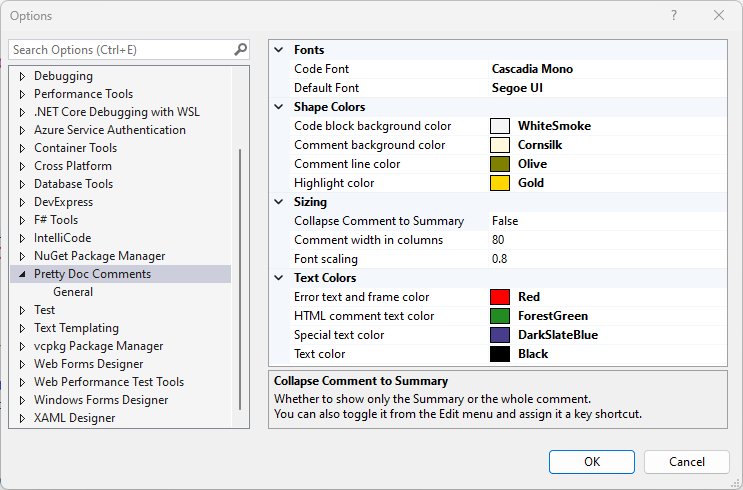
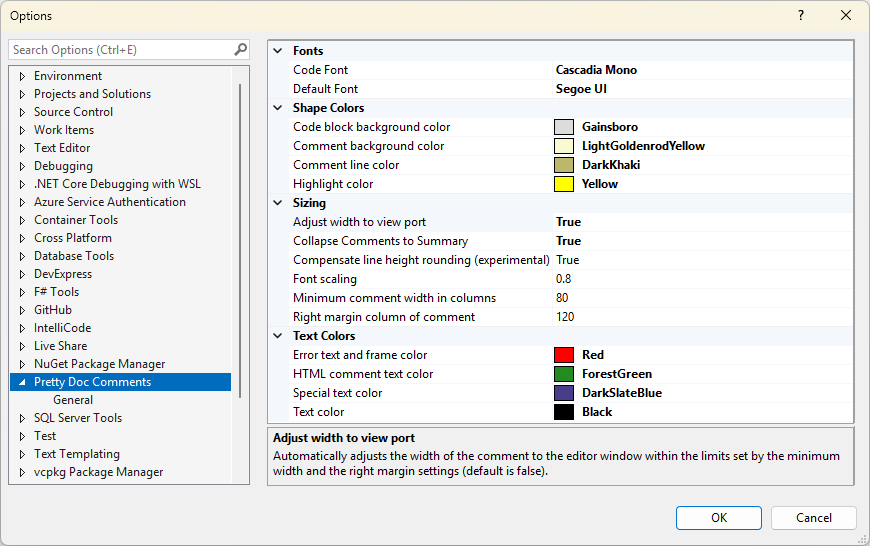
Updated README.md and version number to 0.5.0

diff --git a/README.md b/README.md
@@ -8,7 +8,7 @@ A Visual Studio extension that overlays XML doc comments with a rendered image. 
 ### Compatibility
 It works with single line comments in **C#**, **C++**, **F#** (`///`) and **VB** (`'''`). Multiline comments (`/**  */`) are ignored.
 
-| original | prettyfied |
+| original | prettified |
 | --- | --- |
 | ![original](./original.png?raw=true) | ![prettyfied](./prettyfied.png?raw=true) |
 
@@ -16,16 +16,18 @@ It works with single line comments in **C#**, **C++**, **F#** (`///`) and **VB**
 [Download](https://marketplace.visualstudio.com/items?itemName=OlivierJacot-Descombes.PrettyDocComments) and run the extension (VSIX) for Visual Studio 2022 or later from the [Visual Studio Marketplace](https://marketplace.visualstudio.com/items?itemName=OlivierJacot-Descombes.PrettyDocComments) or, from within Visual Studio, search for "PrettyDocComments" in the "Extensions and Updates" UI.
 
 ### Editing XML doc comments
-When the text cursor (or the text selection start or end) is on a doc comment line, the pretty image is hidden and the original XML text is revealed and ready to be edited the usual way.
+When the text cursor (or the text selection start or end) is on a doc comment line, the pretty image is hidden, and the original XML text is revealed and ready to be edited the usual way.
 
-The XML must be valid XML. If it is not, the original comment text and an error message are displayed.
-For example, a **'&lt;'** character must be written as **\&lt;**
+**The XML must be valid XML!** If it is not, the original comment text and an error message are displayed.
+For example, a **'&lt;'** character must be written as **\&lt;** and the ampersand character (\&) must be written as **\&amp;**
+
+![options](./xmlerror.png?raw=true)
 
 Note that Visual Studio cannot display tooltips from comments containing invalid XML.
 
 ### Configuration
 
-You can configure the appearance of the prettyfied comments in menu ***Tools / Options...***, section ***Pretty Doc Comments***
+You can configure the appearance of the prettified comments in menu ***Tools / Options...***, section ***Pretty Doc Comments***
 
 ![options](./options.png?raw=true)
 
@@ -48,9 +50,23 @@ You can change this setting in three ways:
   You can assign a shortcut key through the menu **Tools / Options...** by selecting the option **Environment > Keyboard**.
   
   Here you can search for commands containing "summ". The name of our command is **Edit.ToggleCollapseCommentstoSummary**.
-  Assign it your desired shortcut key. On my GB-Ascii keyboard **Ctr+Shift+\\** works well.
+  Assign it your desired shortcut key. On my GB-Ascii keyboard **Ctrl+Shift+\\** works well.
+
+### Comment Width Options
+Three settings control the width of the prettified comments:
+- **Minimum comment width in columns**: This minimum width has precedence over the other two settings. The right edge of the comment can surpass the right margin setting when the comment has a large indentation.
+- **Right margin column of comment**: If this value is larger than the minimum comment width, the right edges of the comments will be aligned at this column. Otherwise, the comments will have a fixed width, and their right edges will vary according to the comment indentations.
+- **Adjust width to view port**: If this option is enabled, the right edge of the comment will be adjusted to the right edge of the editor window within the limits given by the two other settings. This is useful when you have a wide screen and want to use the full width of the editor.
+
+### Compensate Line Height Rounding (experimental)
+This option is enabled by default. It compensates for the rounding of the line height by Visual Studio.
+
+Explanation: this extension expands or shrinks the line heights of the doc comments underneath the prettified comments
+to make them fit the prettified comment height. However, Visual Studio rounds the line heights using an unknown algorithm, which can lead to a slight truncation of the comments. This option compensates for this rounding by using a heuristic.
+In a first render pass, the deviation from the estimated height is measured and in a second pass the line heights are adjusted to compensate for this deviation. This can lead to a slight movement of the comment heights.
+If this bothers you, you can disable this option.
 
 ### Shink Empty Lines extension
-If you also have installed and enabled the **Shrink Empty Lines** extensions from the Microsoft Productivity Power Tools, it might interfere with this extension as both are changing the line heights. This can be avoided by disabling 
+If you have also installed and enabled the **Shrink Empty Lines** extensions from the Microsoft Productivity Power Tools, it might interfere with this extension as both are changing the line heights. This can be avoided by disabling 
 *Tools -> Options -> Productivity Power Tools -> General -> <u>Compress lines that do not have any alphanumeric characters</u>*. You can leave the other option *<u>Compress blank lines</u>* enabled.<br/>
 ![collapsed](./ShrinkEmptyLinesOptions.png?raw=true)

diff --git a/changelog.md b/changelog.md
@@ -1,4 +1,9 @@
 # Changelog
+- **0.5.0** - 2025-07-24
+    - Improved alignment of Parameter, Type Parameter and Exception descriptions.
+    - Added more options for customizing comment widths.
+    - Enhanced continuation symbol (">") contrast (when comment is collapsed to summary).
+    - Compensate line hight roundings (experimental, optional)
 - **0.4.0** - 2023-10-10
     - **Added**: Command to toggle collapsing comment to summary.
 - **0.3.5** - 2023-09-30
